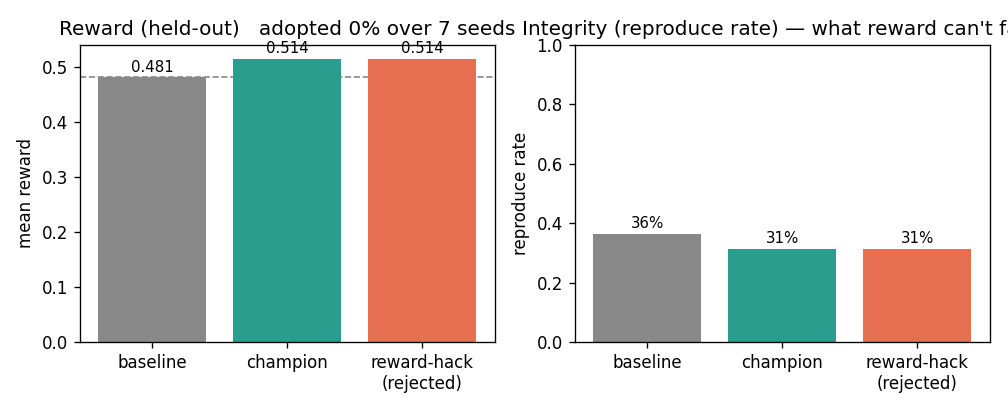
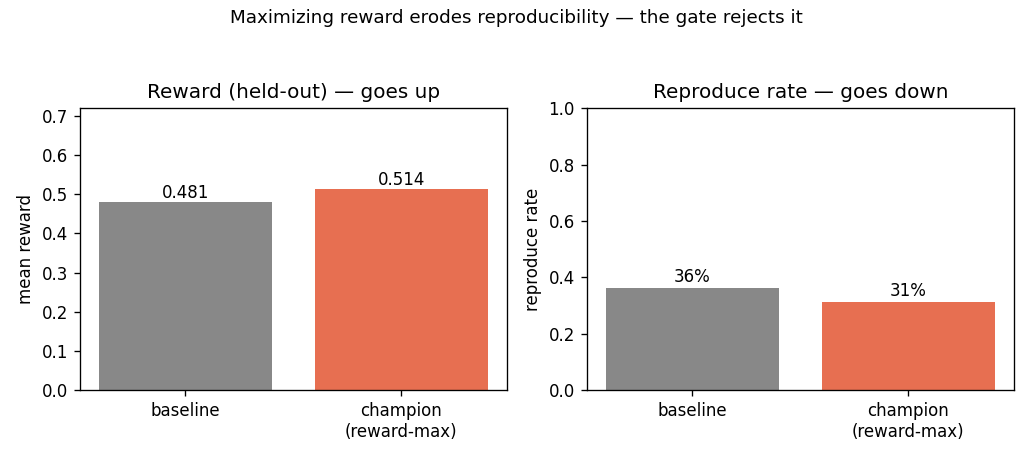
Fix before/after chart: legible, honest two-panel layout
- raise reward-axis ceiling so value labels no longer clip the top
- shorten titles + add a suptitle that fits (was overflowing/truncated)
- drop the redundant 'reward-hack' bar: in this sample it coincides with the
  reward-maximizing champion (maximizing reward already picks the
  non-reproducible strategies); README now states this explicitly
- chart is now baseline vs champion across two panels (reward up / repro down)

Changed region(s): [[0.0, 0.0, 1.0, 0.9706]]

diff --git a/demo/self_improve.py b/demo/self_improve.py
@@ -113,10 +113,17 @@ def main() -> None:
           f"      hack      {_pct(hack_integ)}  -> REJECTED on integrity ✓")
 
     if args.chart:
-        _write_chart(run, hack_reward, hack_integ, reproduce_rate(test), ms, args.chart)
+        _write_chart(run, reproduce_rate(test), args.chart)
 
 
-def _write_chart(run, hack_reward, hack_integ, base_integ, ms, path: Path) -> None:
+def _write_chart(run, base_integ: float | None, path: Path) -> None:
+    """Two panels, baseline vs the reward-maximizing champion.
+
+    The 'reward-hack' policy is omitted on purpose: in this sample it coincides
+    with the reward-maximizing champion (maximizing reward already selects the
+    non-reproducible strategies), so a third bar would just duplicate the second.
+    The story is the cross-panel tradeoff: reward up, reproducibility down.
+    """
     try:
         import matplotlib
         matplotlib.use("Agg")
@@ -125,27 +132,30 @@ def _write_chart(run, hack_reward, hack_integ, base_integ, ms, path: Path) -> No
         print("      (chart skipped: matplotlib not installed — pip install '.[charts]')")
         return
     path.parent.mkdir(parents=True, exist_ok=True)
-    fig, (ax1, ax2) = plt.subplots(1, 2, figsize=(8.4, 3.4))
+    fig, (ax1, ax2) = plt.subplots(1, 2, figsize=(8.6, 3.8))
 
-    labels = ["baseline", "champion\n(adopted)" if run.decision.passed else "champion",
-              "reward-hack\n(rejected)"]
-    rewards = [run.reward_baseline, run.reward_candidate, hack_reward["overall"]]
-    ax1.bar(labels, rewards, color=["#888", "#2a9d8f", "#e76f51"])
-    ax1.axhline(run.reward_baseline, color="#888", lw=1, ls="--", zorder=0)
-    ax1.set_title(f"Reward (held-out)   adopted {ms['adopt_rate']*100:.0f}% over {ms['n']} seeds")
+    labels = ["baseline", "champion\n(reward-max)"]
+    colors = ["#888", "#e76f51"]  # champion is rejected -> warning color
+
+    rewards = [run.reward_baseline, run.reward_candidate]
+    ax1.bar(labels, rewards, color=colors)
+    ax1.set_title("Reward (held-out) — goes up")
     ax1.set_ylabel("mean reward")
+    ax1.set_ylim(0, max(rewards) * 1.4)
     for i, v in enumerate(rewards):
-        ax1.text(i, v + 0.01, f"{v:.3f}", ha="center", fontsize=9)
+        ax1.text(i, v + max(rewards) * 0.02, f"{v:.3f}", ha="center", fontsize=10)
 
-    integ = [base_integ or 0, run.integrity_candidate or 0, hack_integ or 0]
-    ax2.bar(labels, integ, color=["#888", "#2a9d8f", "#e76f51"])
-    ax2.set_title("Integrity (reproduce rate) — what reward can't fake")
+    integ = [base_integ or 0.0, run.integrity_candidate or 0.0]
+    ax2.bar(labels, integ, color=colors)
+    ax2.set_title("Reproduce rate — goes down")
     ax2.set_ylabel("reproduce rate")
     ax2.set_ylim(0, 1)
     for i, v in enumerate(integ):
-        ax2.text(i, v + 0.02, f"{v*100:.0f}%", ha="center", fontsize=9)
+        ax2.text(i, v + 0.02, f"{v * 100:.0f}%", ha="center", fontsize=10)
 
-    fig.tight_layout()
+    fig.suptitle("Maximizing reward erodes reproducibility — the gate rejects it",
+                 fontsize=11)
+    fig.tight_layout(rect=(0, 0, 1, 0.94))
     fig.savefig(path, dpi=120)
     print(f"      chart -> {path}")
 

diff --git a/README.md b/README.md
@@ -32,13 +32,17 @@ $ python -m demo.self_improve
       integrity Δ -0.086 ± 0.045
 ```
 
-![Reward vs integrity: the gate judges both](docs/assets/before_after.png)
+![Maximizing reward erodes reproducibility, so the gate rejects it](docs/assets/before_after.png)
 
 Read what the demo is actually saying: the reward-maximizing routing **does**
 raise reward (+0.017 on average) — and it erodes reproducibility every single
 time (−0.086 ± 0.045 across 7 splits). A reward-only gate would adopt it. The
 integrity-aware gate rejects it on all 7 splits. **That refusal is the feature.**
-(The numbers come from a real but small, partly-synthetic log sample — see
+
+In this sample the reward-maximizing champion turns out to *be* the
+reward-hacking policy — maximizing reward already selects the non-reproducible
+strategies — which is exactly why it is rejected on integrity. (The numbers come
+from a real but small, partly-synthetic log sample — see
 [honesty notes](#honesty-notes-read-this); the mechanism is the point, not the
 exact figures.)
 